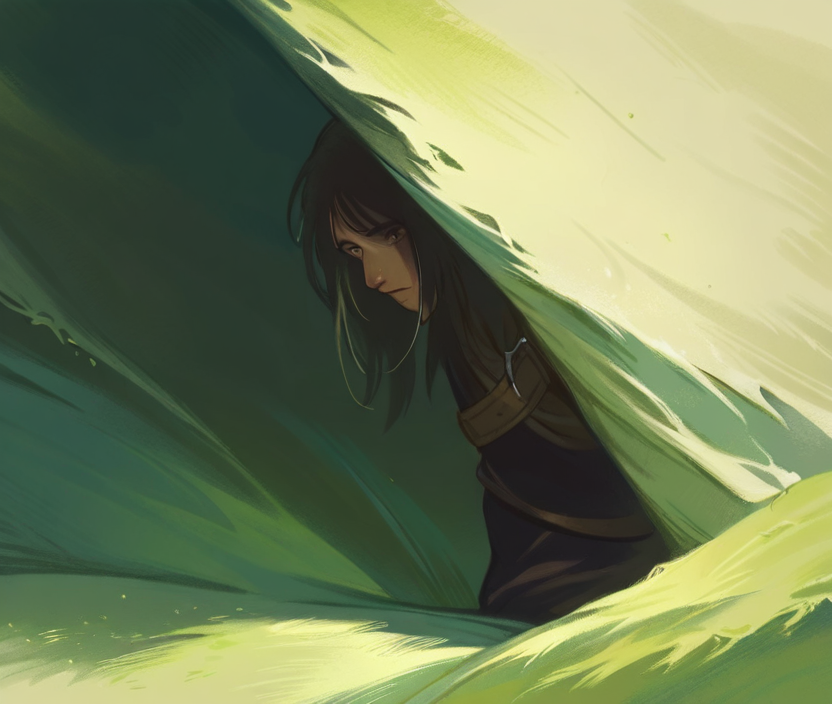
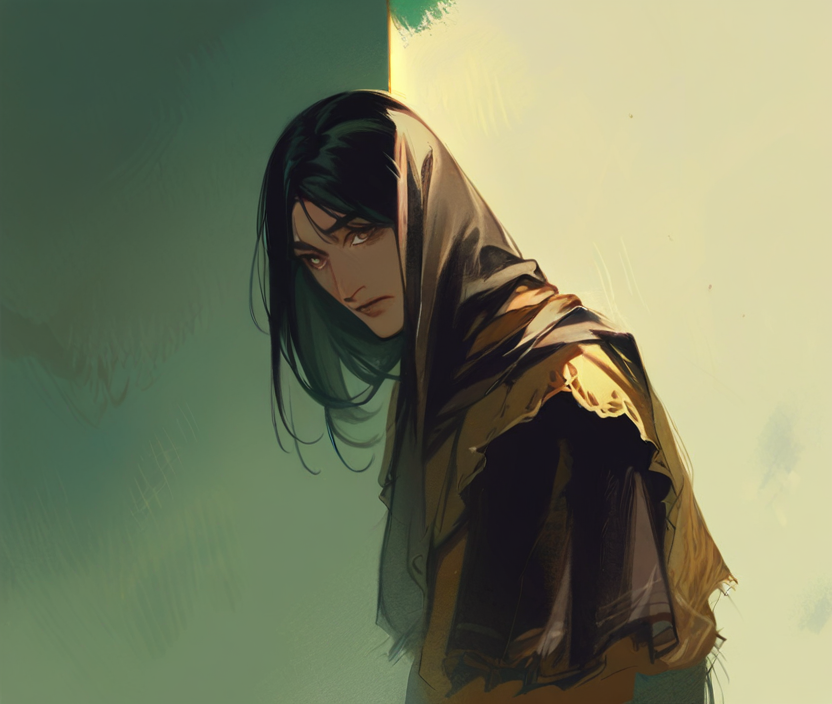
feat: 卡面 v4 修正——STYLE 加构图约束（medium shot / full upper body / hands in frame / three-quarter view）；新增 card_subjects_v4_fix.py（18 条按「具体身体姿态」改写），已挂到生成脚本自动叠加；重出 33 张

diff --git a/tools/card_subjects_v4_fix.py b/tools/card_subjects_v4_fix.py
@@ -1,0 +1,22 @@
+# -*- coding: utf-8 -*-
+"""v4 修正表：把「抽象动作」换成「具体身体姿态」"""
+
+FIXES = {
+    "合眼": "leaning over a fallen comrade and pressing two coins onto his eyes, a soldier kneeling on a battlefield",
+    "回音": "pulling a bell rope with both hands, head tilted to listen, a monk standing in a tall stone belfry",
+    "望归": "leaning on a windowsill and staring out at a dark road, a woman in a cottage window",
+    "窥视": "crouching and pressing one eye to a gap between planks, a spy in a narrow alley",
+    "流星": "looking up with an open mouth and pointing at the sky, a boy standing on a hillside at night",
+    "吐锋": "drawing his blade a hand's width from the scabbard and looking down at the steel, a duelist in a corridor",
+    "深潜": "diving head-first into black water, arms extended, a swimmer seen from above",
+    "圣光弹": "throwing a sphere of pale light forward with one arm, body twisted, a cleric on a battlefield",
+    "圣言": "leaning over an open holy book at a lectern, one line glowing, a preacher reading aloud",
+    "圣约": "hugging a heavy leather tome to his chest with both arms, a bishop in a candlelit cathedral",
+    "神国余晖": "bending down to pick up a golden halo ring from the floor, a servant in a ruined temple",
+    "冥想": "sitting cross-legged on a folded mat with hands on knees and eyes closed, a monk in a bare cell",
+    "审判": "holding brass scales up in one hand and a sword in the other, a judge in a cold hall",
+    "圣痕": "holding her own palm up and staring at a bleeding wound mark, a nun in a candlelit chapel",
+    "圣光": "holding a small golden reliquary up before her face with both hands, a priest in a dark cathedral",
+    "快速思考": "hunched over a slate and writing fast with a quill, a scholar at a cluttered desk",
+    "急救": "kneeling and cutting a bloody sleeve open with a small knife, a field surgeon in a tent",
+}

diff --git a/tools/gen_card_art_v3.py b/tools/gen_card_art_v3.py
@@ -18,7 +18,9 @@ CKPT = "animagine-xl-4.0.safetensors"
 STYLE = (
     "masterpiece, best quality, absurdres, "
     "medieval dark fantasy illustration, single character, "
-    "detailed clothing, layered fabric, dirt and wear, hands in frame, "
+    "medium shot, full upper body and head visible, hands in frame, "
+    "face visible in three-quarter view, centered composition, "
+    "detailed clothing, layered fabric, dirt and wear, "
     "visible face, face clearly lit from the side, warm light on the face, "
     "semi-realistic painterly concept art, matte surfaces, "
     "desaturated muted colors, deep teal shadows, soft directional light, "
@@ -42,6 +44,12 @@ SUBJECTS.update(SUBJECTS_V4_C)
 SUBJECTS.update(SUBJECTS_V4_D)
 # 去掉 hooded / cloaked / robed —— 这三个词会让 SDXL 把人画成兜帽黑影
 SUBJECTS = {k: re.sub(r"\\b(hooded|cloaked|robed)\\s+", "", v) for k, v in SUBJECTS.items()}
+try:
+    from card_subjects_v4_fix import FIXES as F4
+    SUBJECTS.update(F4)
+    print("v4 修正表 %d 条" % len(F4))
+except Exception as _e:
+    print("无 v4 修正表")
 print("使用 v4 描述表 %d 条" % len(SUBJECTS))
 
 
